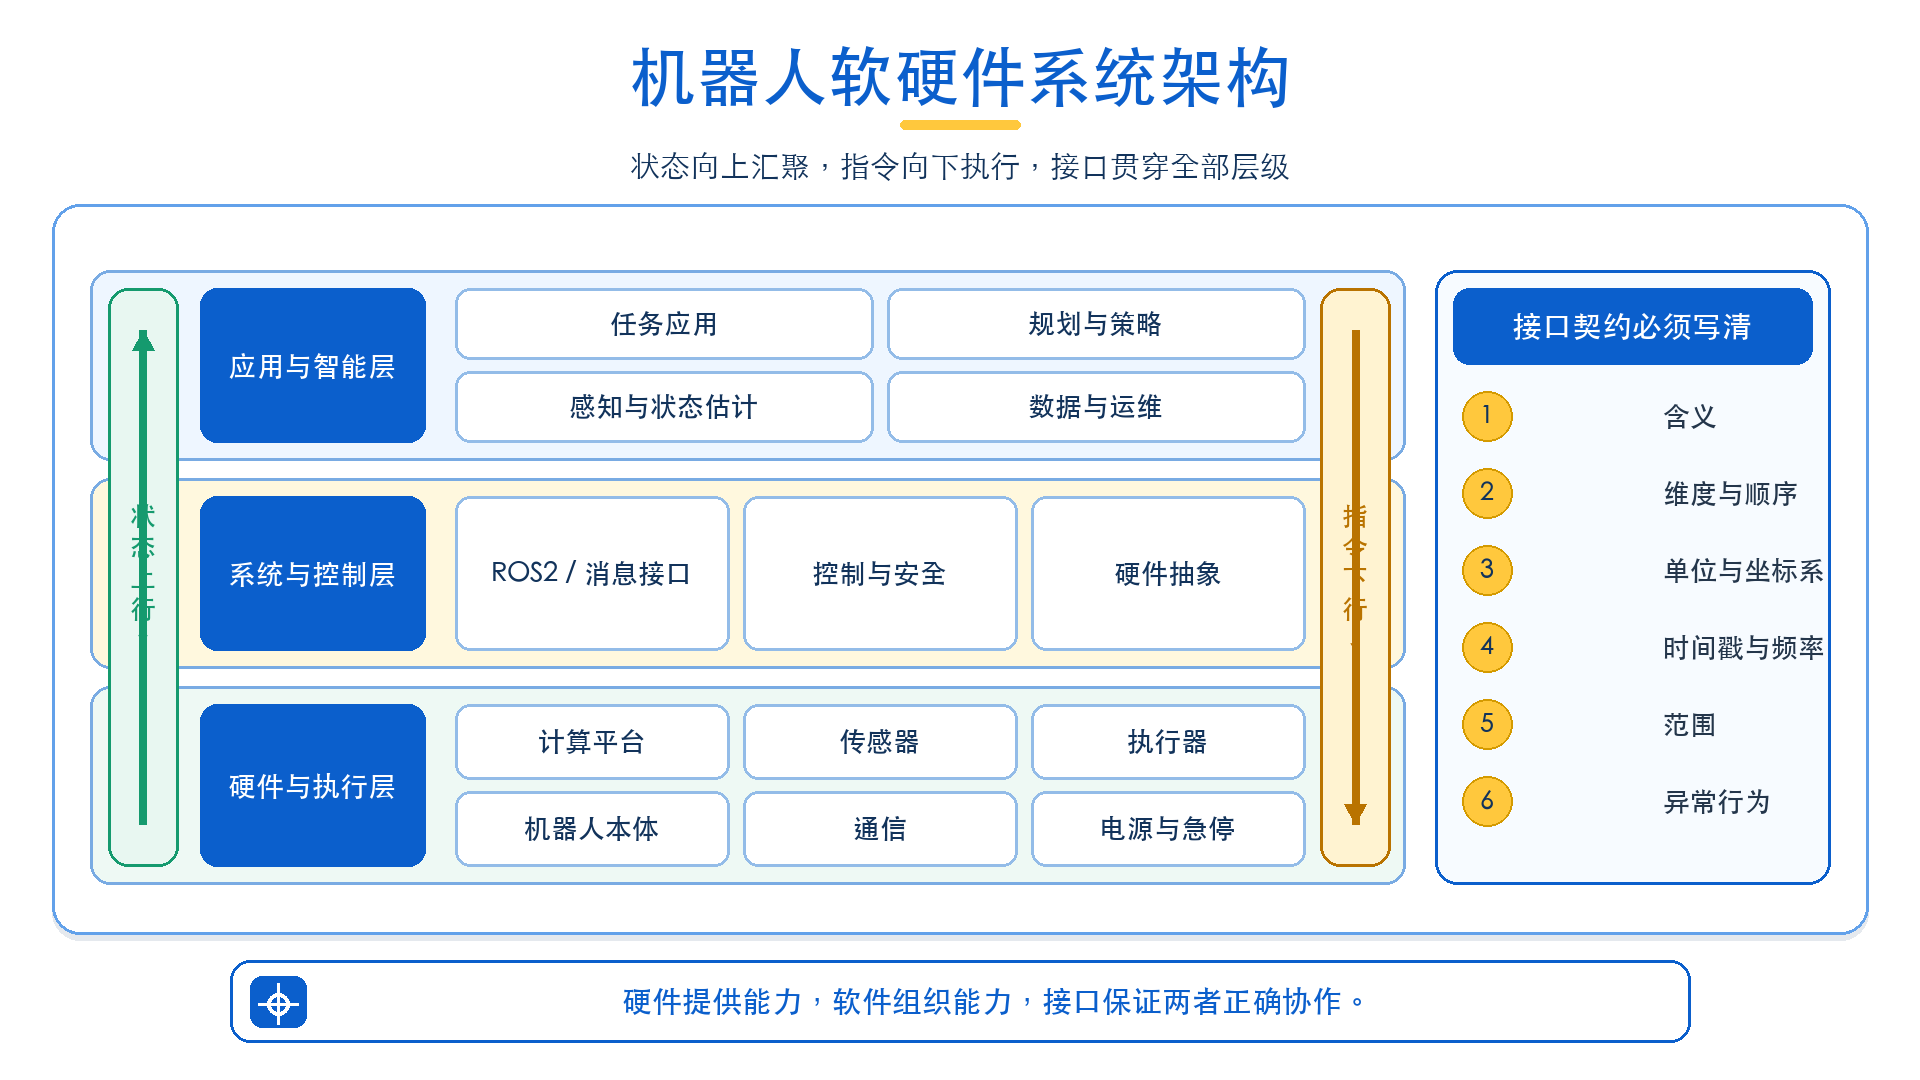
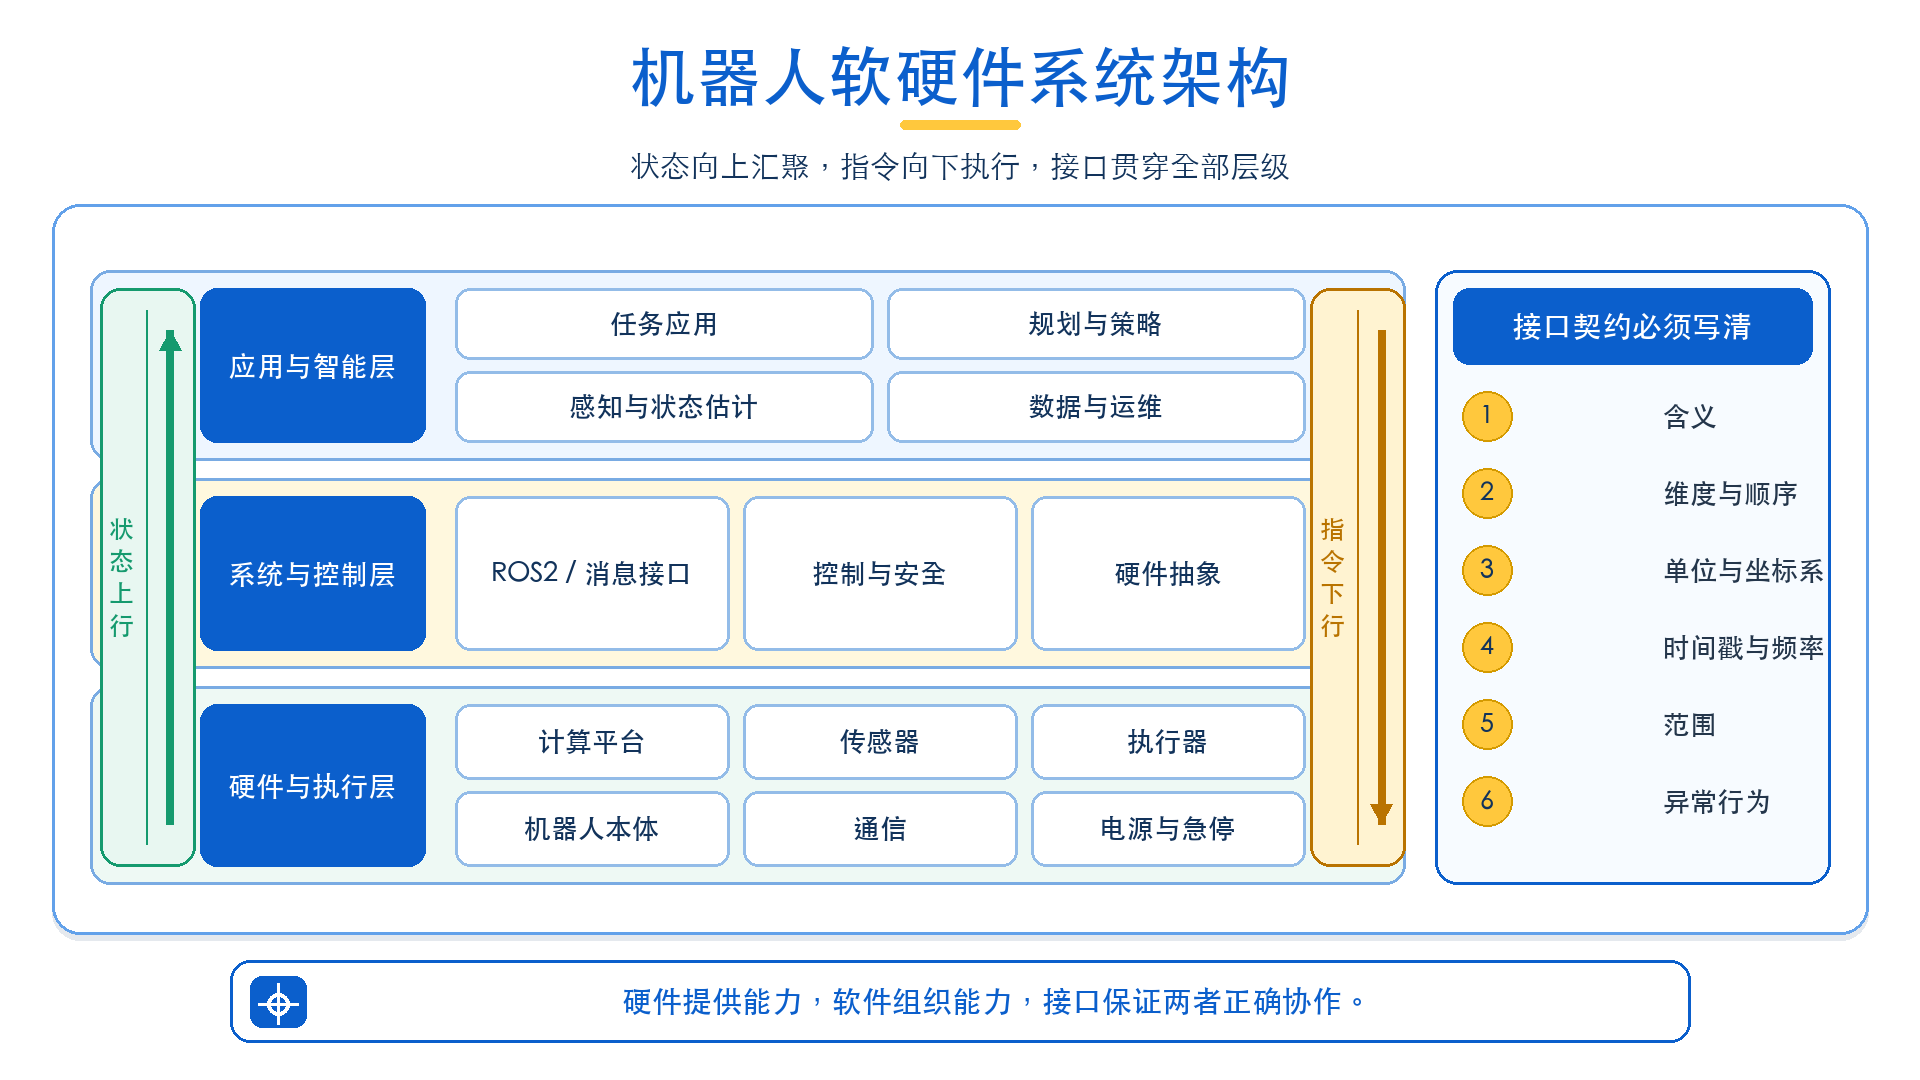
修复图2-2通道文字遮挡

diff --git a/tools/lecture_infographics/layouts_c.py b/tools/lecture_infographics/layouts_c.py
@@ -1,5 +1,6 @@
 from __future__ import annotations
 
+from dataclasses import dataclass
 from pathlib import Path
 
 from PIL import Image, ImageDraw
@@ -25,6 +26,19 @@ YELLOW = THEME.accent
 GREEN = THEME.success
 
 
+@dataclass(frozen=True)
+class LaneLayout:
+    box: tuple[int, int, int, int]
+    text_x: int
+    arrow_x: int
+
+
+LANE_LAYOUTS = {
+    "state_up": LaneLayout((100, 288, 195, 866), text_x=122, arrow_x=170),
+    "command_down": LaneLayout((1310, 288, 1405, 866), text_x=1333, arrow_x=1381),
+}
+
+
 def _module(
     draw: ImageDraw.ImageDraw,
     box: tuple[int, int, int, int],
@@ -38,29 +52,29 @@ def _module(
 
 def _flow_lane(
     draw: ImageDraw.ImageDraw,
-    box: tuple[int, int, int, int],
+    layout: LaneLayout,
     label: str,
     *,
     upward: bool,
     color: str,
     fill: str,
 ) -> None:
-    x1, y1, x2, y2 = box
-    draw.rounded_rectangle(box, radius=20, fill=fill, outline=color, width=3)
-    center_x = (x1 + x2) // 2
-    start = (center_x, y2 - 42) if upward else (center_x, y1 + 42)
-    end = (center_x, y1 + 42) if upward else (center_x, y2 - 42)
+    x1, y1, x2, y2 = layout.box
+    draw.rounded_rectangle(layout.box, radius=20, fill=fill, outline=color, width=3)
+    divider_x = (layout.text_x + layout.arrow_x) // 2
+    draw.line((divider_x, y1 + 22, divider_x, y2 - 22), fill=color, width=2)
+    start = (layout.arrow_x, y2 - 42) if upward else (layout.arrow_x, y1 + 42)
+    end = (layout.arrow_x, y1 + 42) if upward else (layout.arrow_x, y2 - 42)
     draw_arrow(draw, start, end, color=color, width=8)
-    direction = "↑" if upward else "↓"
     vertical_label = "\n".join(label)
-    fit_text(
-        draw,
-        f"{vertical_label}\n{direction}",
-        (x1 + 5, y1 + 155, x2 - 5, y2 - 155),
-        26,
-        24,
-        "bold",
-        color,
+    draw.multiline_text(
+        (layout.text_x, (y1 + y2) // 2),
+        vertical_label,
+        font=font(25, "bold"),
+        fill=color,
+        anchor="mm",
+        align="center",
+        spacing=10,
     )
 
 
@@ -120,7 +134,7 @@ def draw_2_2(
 
     _flow_lane(
         draw,
-        (108, 288, 178, 866),
+        LANE_LAYOUTS["state_up"],
         spec.labels[13],
         upward=True,
         color=GREEN,
@@ -128,7 +142,7 @@ def draw_2_2(
     )
     _flow_lane(
         draw,
-        (1320, 288, 1390, 866),
+        LANE_LAYOUTS["command_down"],
         spec.labels[14],
         upward=False,
         color="#B97300",

diff --git a/tools/lecture_infographics/test_render.py b/tools/lecture_infographics/test_render.py
@@ -183,9 +183,26 @@ class LayoutTests(unittest.TestCase):
         from tools.lecture_infographics.layouts_b import B_LAYOUTS
         from tools.lecture_infographics.layouts_c import C_LAYOUTS
 
-        assigned = set(A_LAYOUTS) | set(B_LAYOUTS) | set(C_LAYOUTS)
+        a_keys, b_keys, c_keys = set(A_LAYOUTS), set(B_LAYOUTS), set(C_LAYOUTS)
+        self.assertTrue(a_keys.isdisjoint(b_keys))
+        self.assertTrue(a_keys.isdisjoint(c_keys))
+        self.assertTrue(b_keys.isdisjoint(c_keys))
+        assigned = a_keys | b_keys | c_keys
         self.assertEqual(assigned, set(load_manifest()))
         self.assertEqual(len(assigned), 14)
+
+    def test_c_lane_text_and_arrow_columns_are_separated(self):
+        from tools.lecture_infographics.layouts_c import LANE_LAYOUTS
+
+        self.assertEqual(set(LANE_LAYOUTS), {"state_up", "command_down"})
+        for name, lane in LANE_LAYOUTS.items():
+            with self.subTest(name=name):
+                x1, _, x2, _ = lane.box
+                self.assertGreater(lane.text_x, x1)
+                self.assertLess(lane.text_x, x2)
+                self.assertGreater(lane.arrow_x, x1)
+                self.assertLess(lane.arrow_x, x2)
+                self.assertGreaterEqual(abs(lane.text_x - lane.arrow_x), 40)
 
     def test_all_b_figures_declare_rendered_loop_routes(self):
         from tools.lecture_infographics.layouts_b import LOOP_ROUTES
